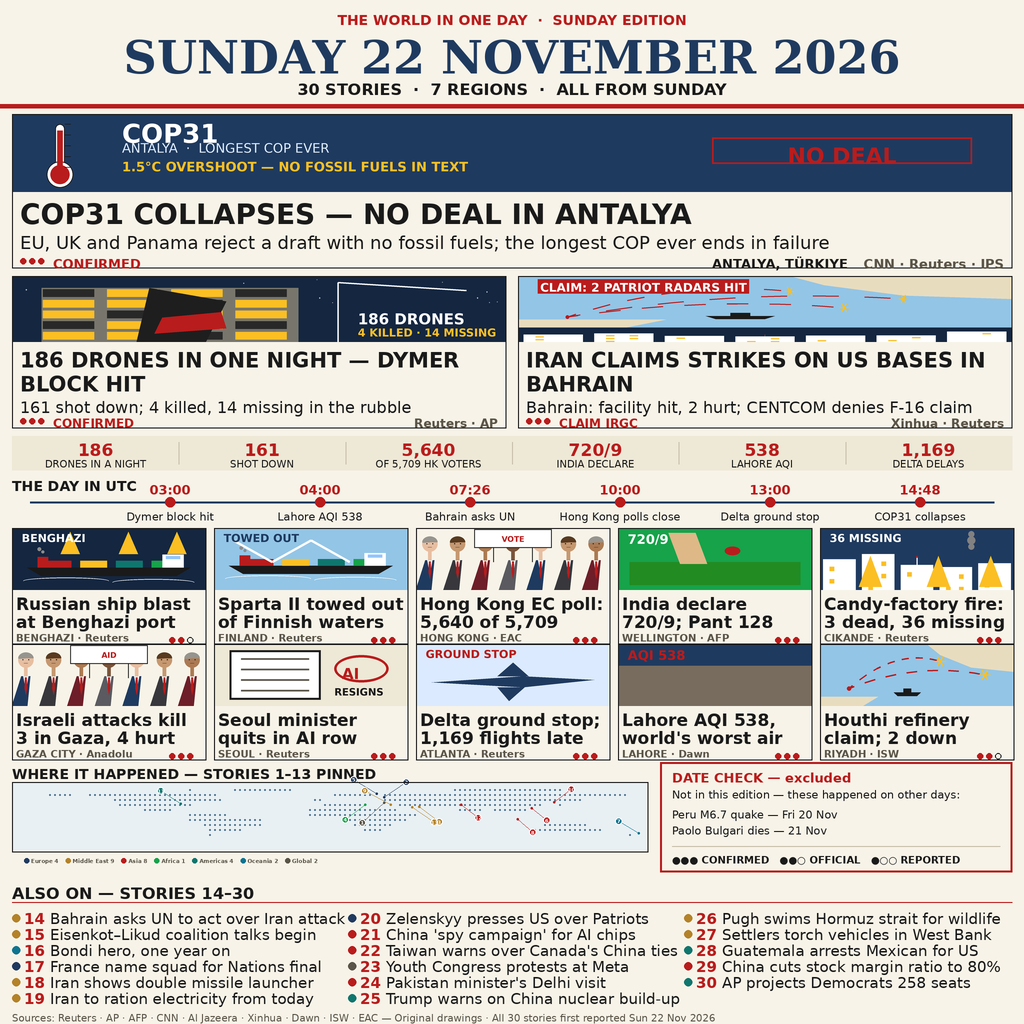
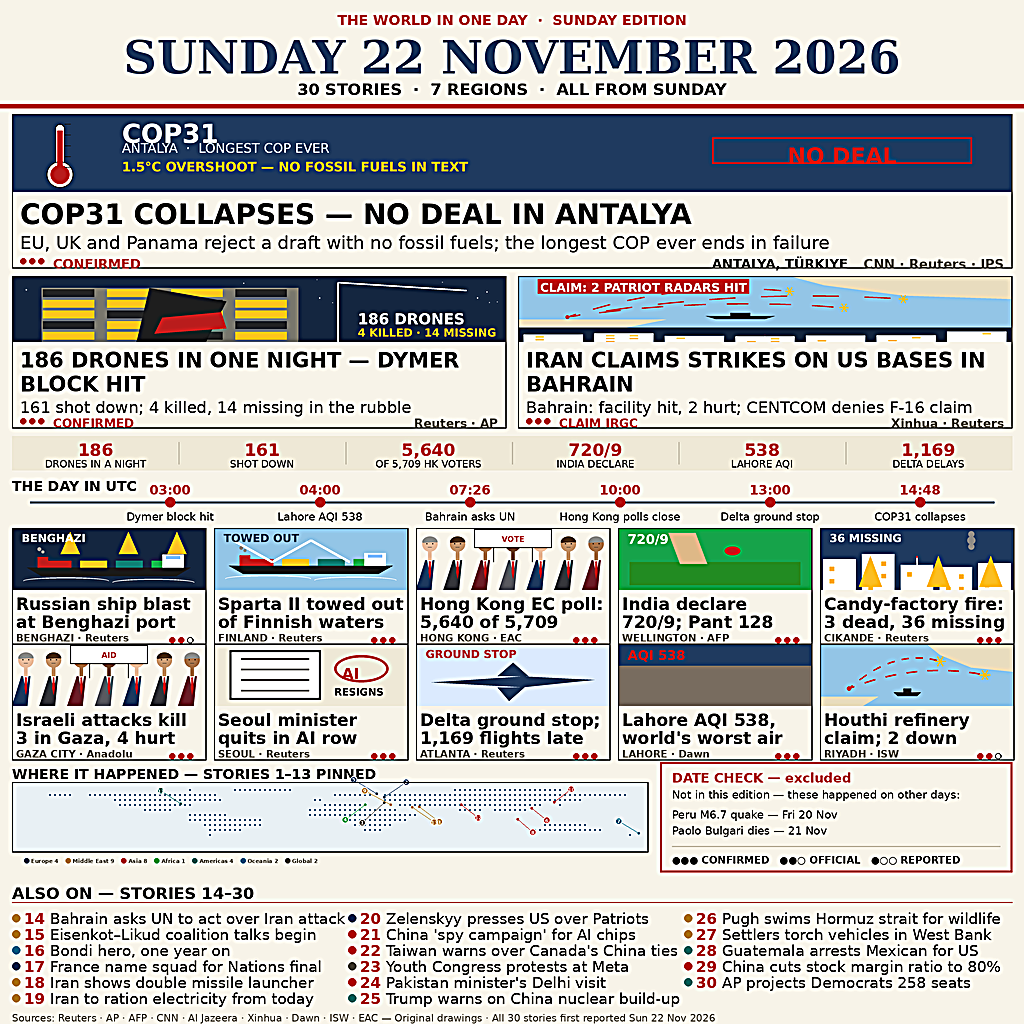
v3: sharpen poster after downscale (unsharp mask) — crisper at 300px
Joni: 300px preview looked blurry. Root cause is the 1024->300
downscale (15px text becomes ~4px), not the downscale method
(LANCZOS already). A moderate unsharp mask (radius 2, percent 120,
threshold 2) after the LANCZOS downscale keeps the masthead and big
headlines crisp at judge size. Integrated into render_poster.py so
the build is reproducible; entry.png + preview-300.png regenerated.
Tests 21/21 pass; main.py byte-identical as uid 65534.

Changed region(s): [[0.0, 0.0, 1.0, 1.0]]

diff --git a/render_poster.py b/render_poster.py
@@ -55,7 +55,7 @@ import sys
 sys.path.insert(0, os.path.expanduser(
     "~/workspace/custom-skills/editorial-illustration"))
 
-from PIL import Image, ImageDraw  # noqa: E402
+from PIL import Image, ImageDraw, ImageFilter  # noqa: E402
 
 from lib import dataviz, figures, landmarks, palette, scenes, worldmap  # noqa: E402
 from lib.palette import (  # noqa: E402
@@ -614,6 +614,11 @@ def build():
            font=fnt("sans", 10), fill=MUTED)
 
     img = img.resize((W, H), Image.LANCZOS)
+    # Sharpen after downscale: the judge views the entry at ~300px, and
+    # a moderate unsharp mask keeps the masthead and big headlines crisp
+    # at that size (Joni, 23 Nov 2026: "Knp di 300px gambarnya buram").
+    img = img.filter(ImageFilter.UnsharpMask(radius=2, percent=120,
+                                             threshold=2))
     img.save(OUT, optimize=True)
     data = open(OUT, "rb").read()
     print("wrote %s  %d bytes  sha256 %s"
